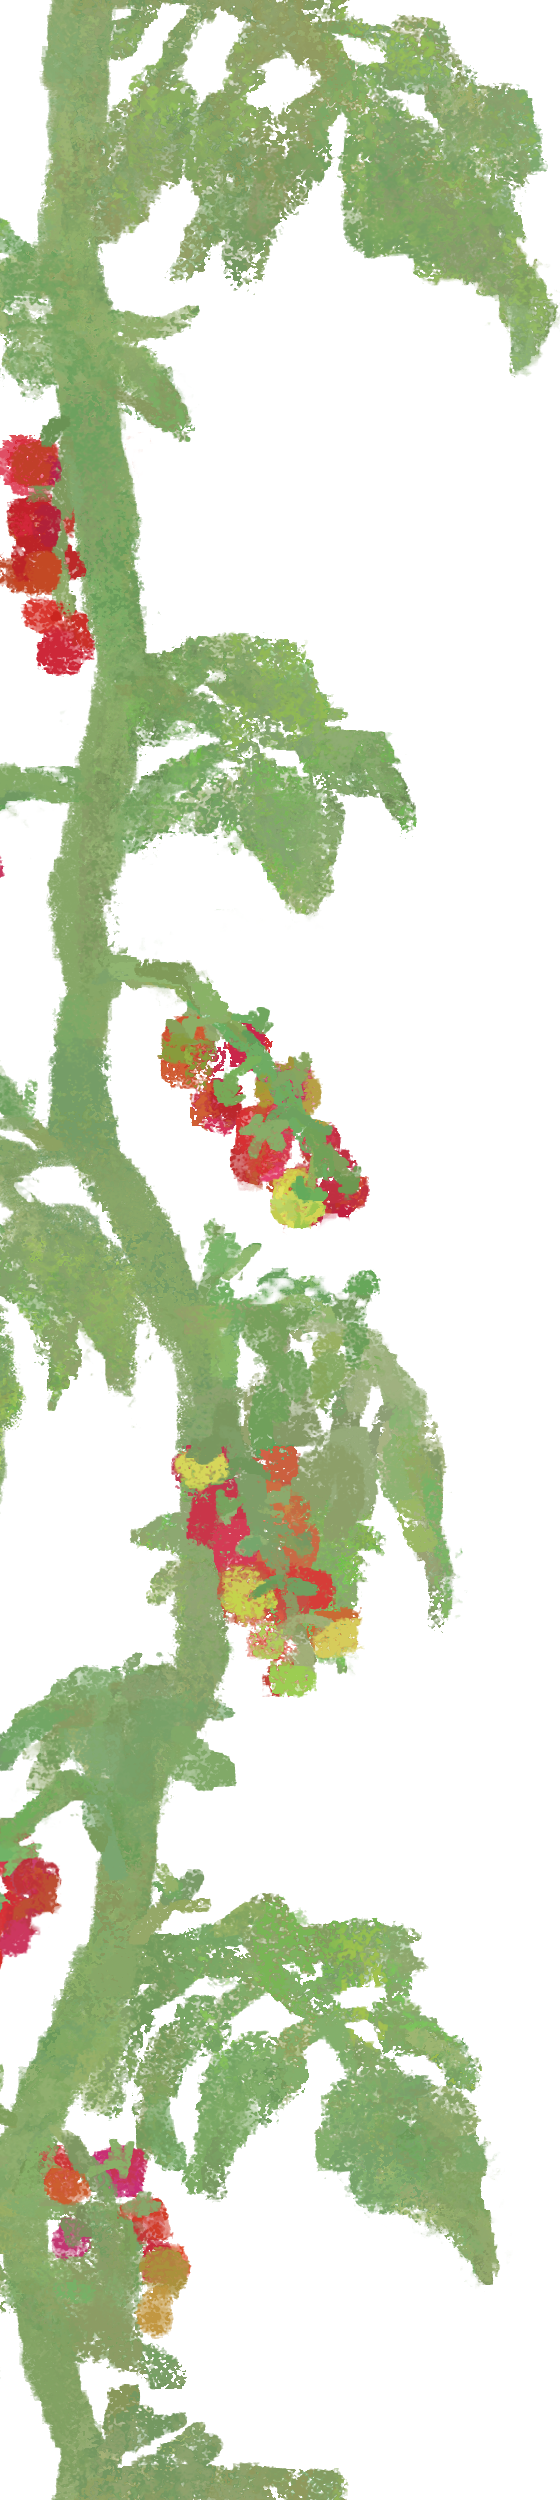
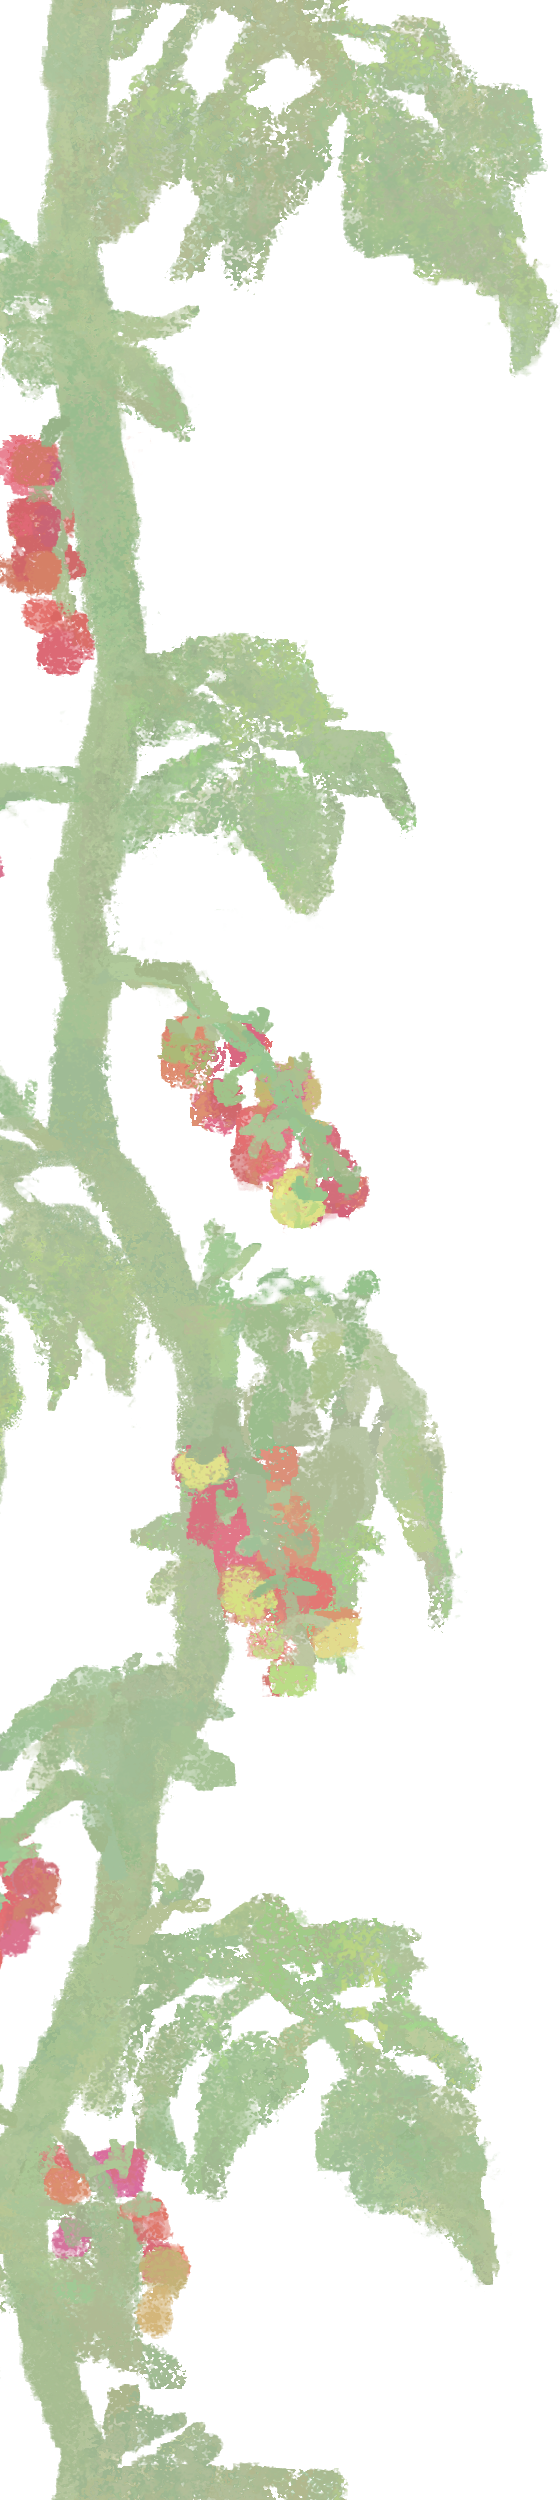
Add files via upload

diff --git a/stylesheet.css b/stylesheet.css
@@ -6,8 +6,6 @@ body {
   background-position: left, right;
   background-size: 15%;
   background-repeat: repeat-y;
-  background-color: rgba(255, 255, 255, 0.3);
-  background-blend-mode: lighten;
 }
 
 h2 {
@@ -390,7 +388,8 @@ h4 {
 @media all and (max-width: 1200px) {
   body {
     background-size: 20%;
-    background-color: rgba(255, 255, 255, 0.5);
+    background-color: rgba(255, 255, 255, 0.3);
+    background-blend-mode: lighten;
   }
 
   .container {
